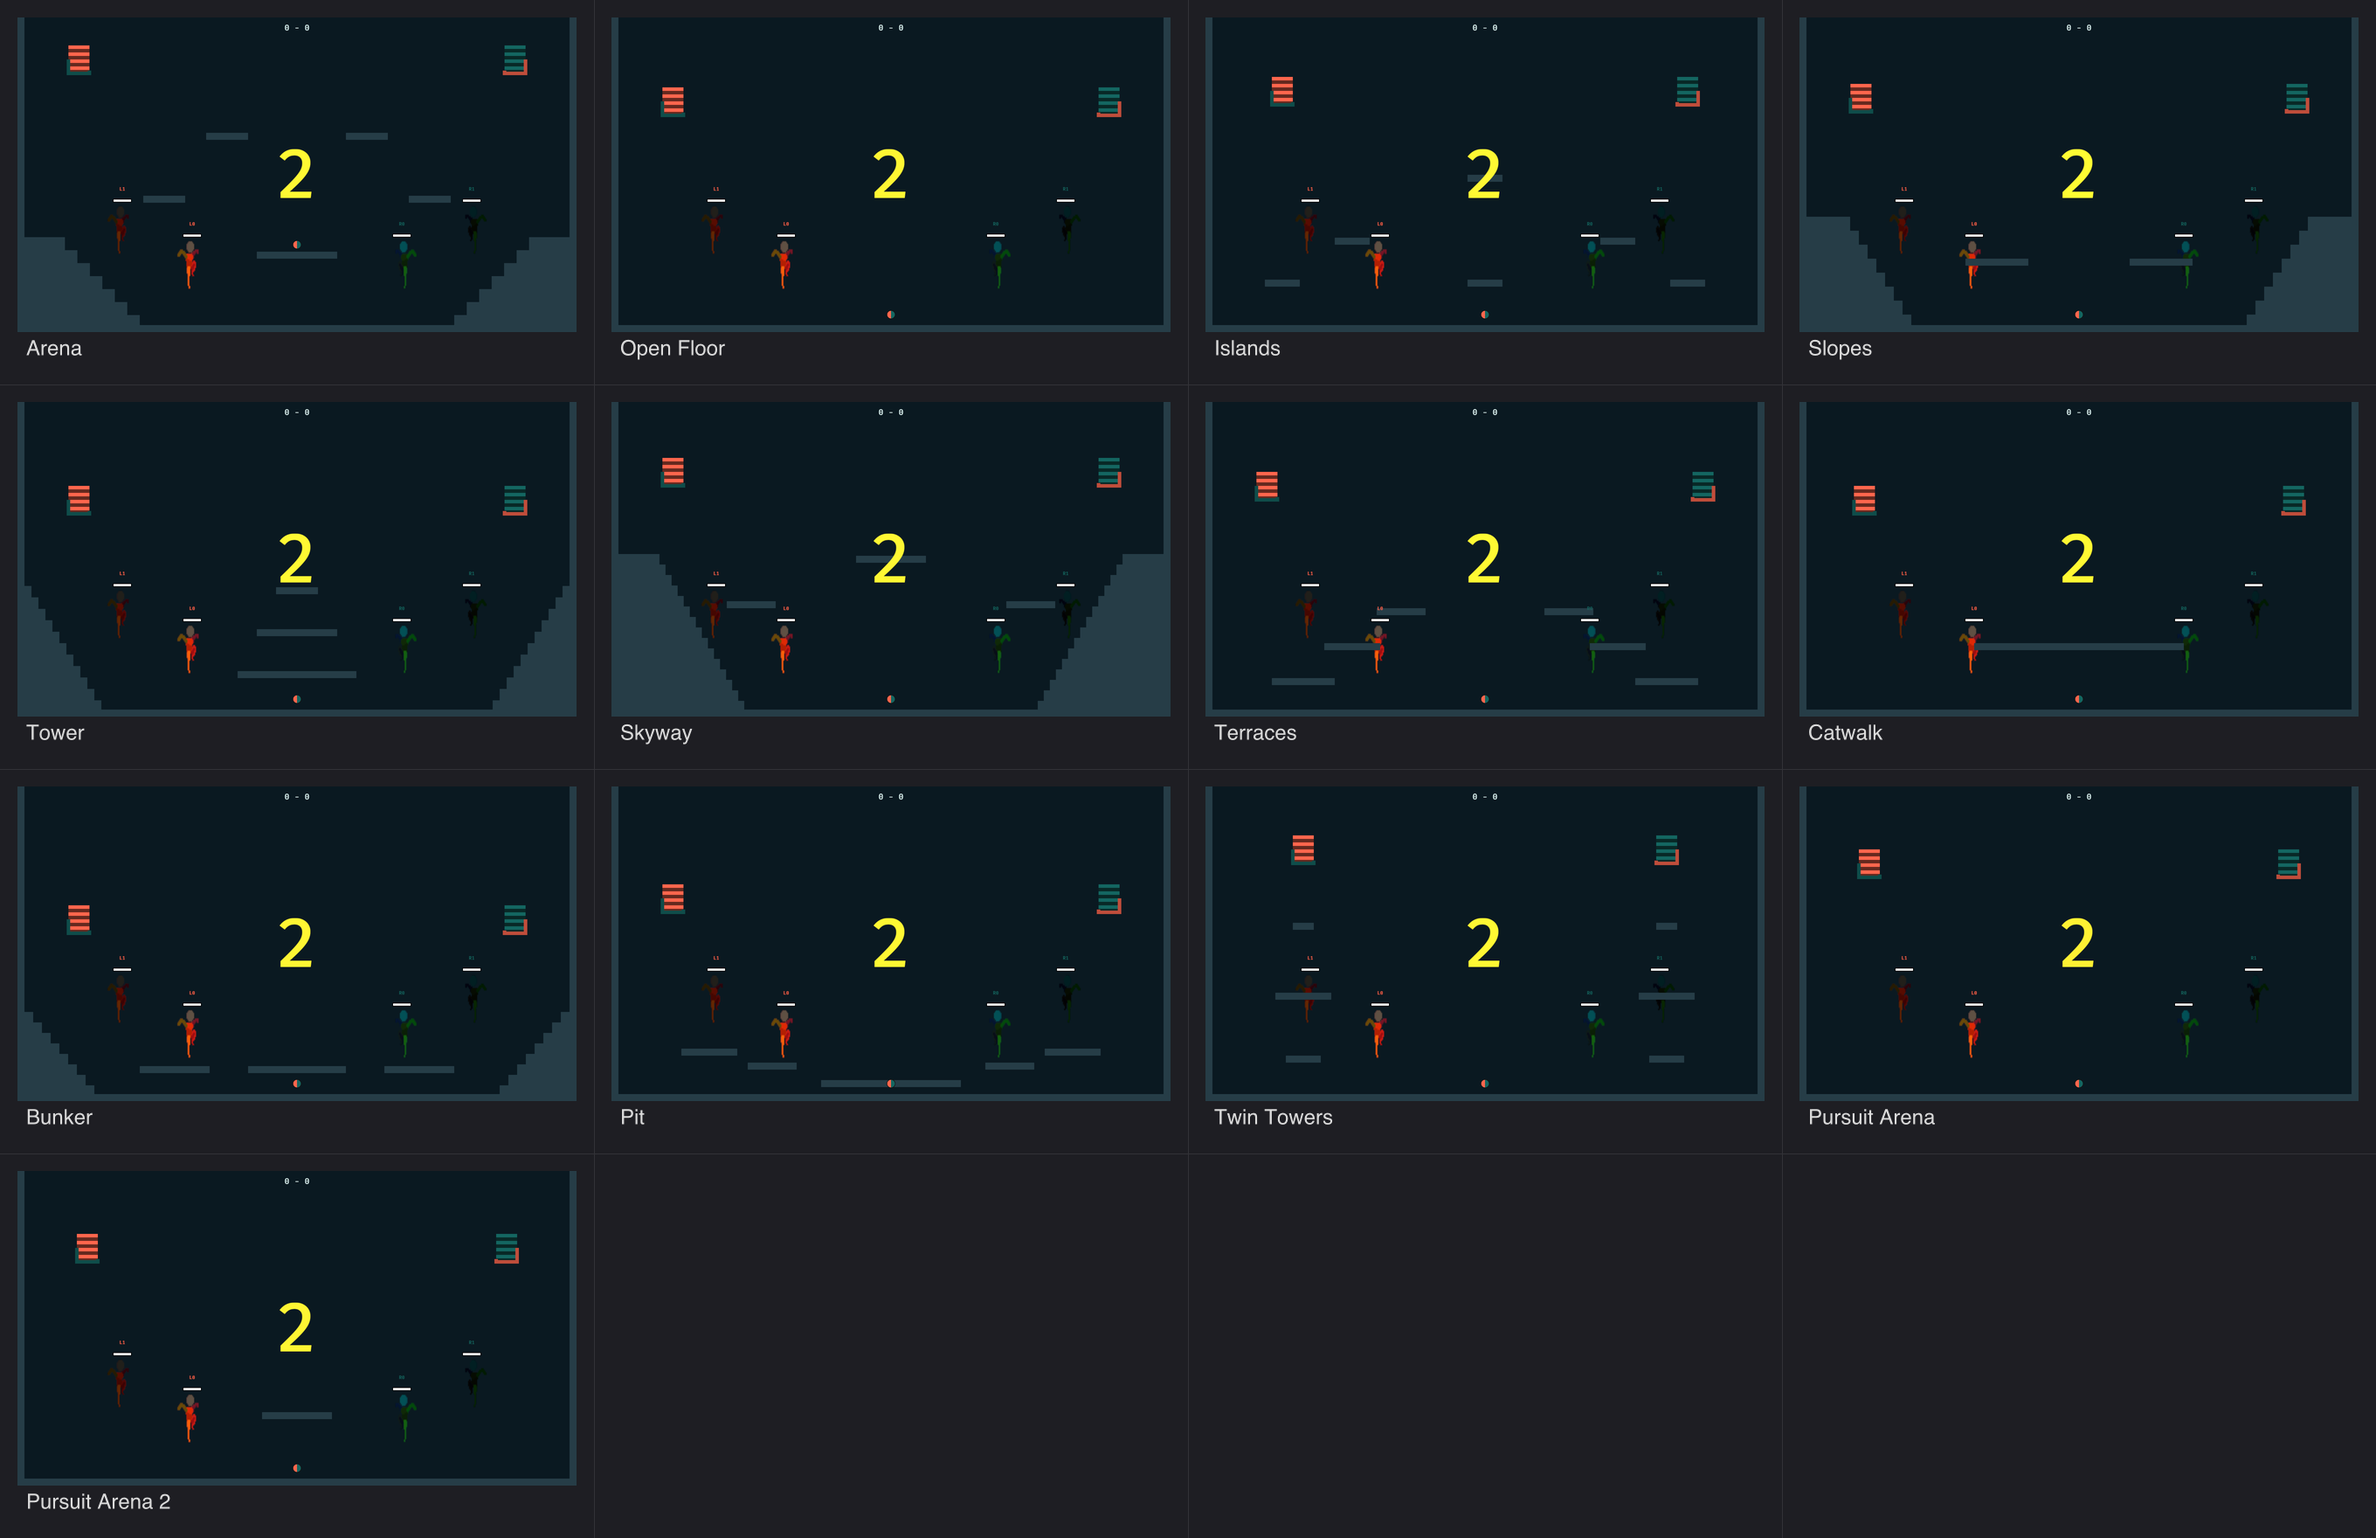
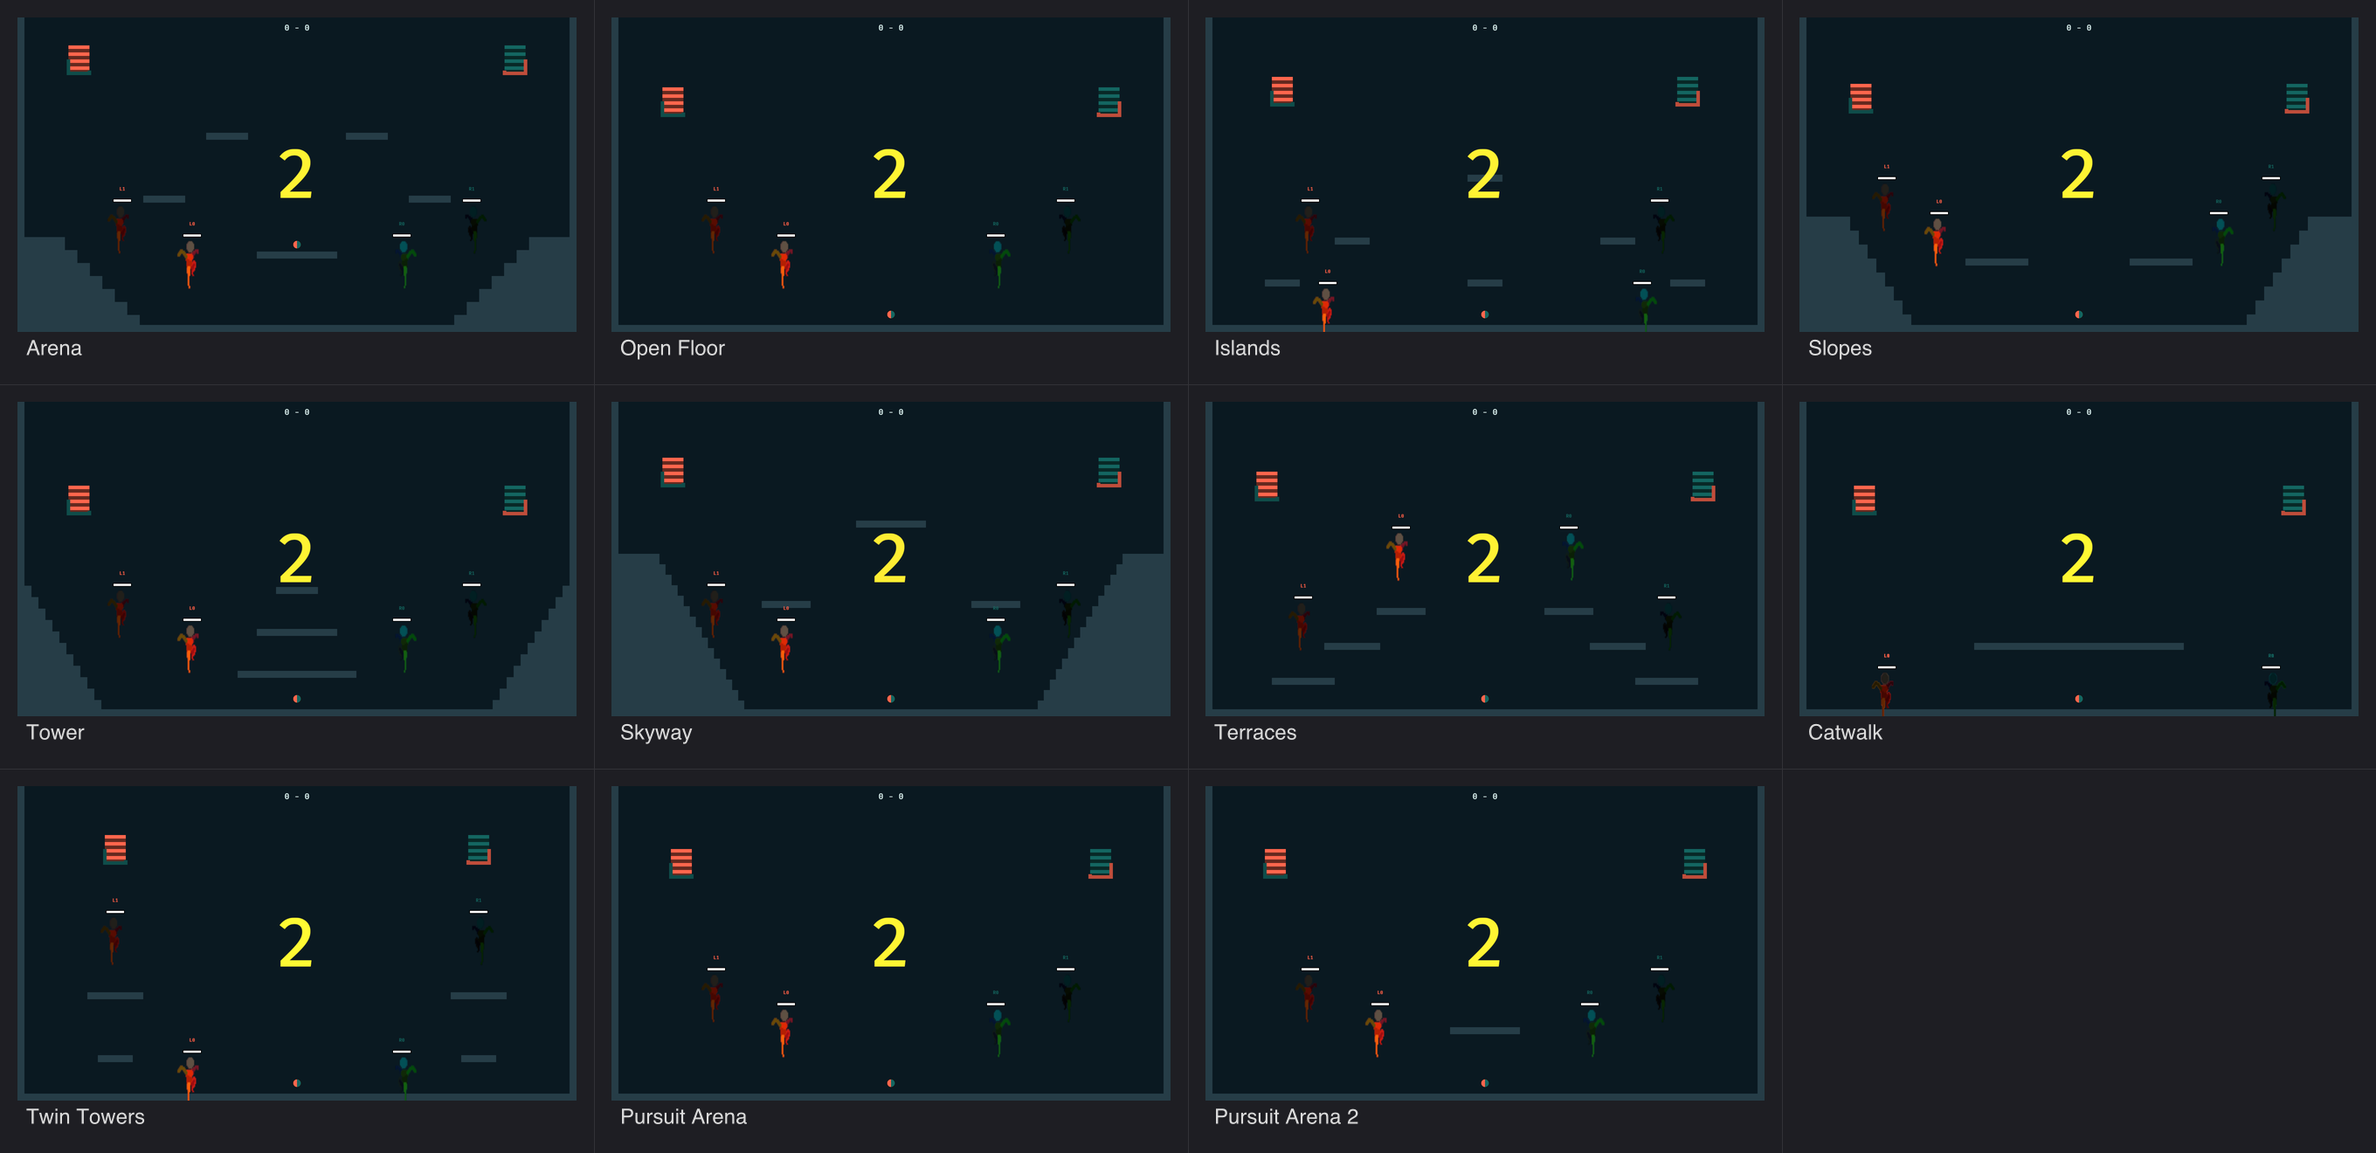
levels spawn etc

diff --git a/ballgame/src/player/spawn.rs b/ballgame/src/player/spawn.rs
@@ -38,31 +38,39 @@ pub fn spawn_position_for_level(
     // Check for custom spawn positions in the level
     // spawn_primary: L0 at (-x, y), R0 at (+x, y)
     // spawn_secondary: L1 at (-x, y), R1 at (+x, y)
+    // y=0 means use default y (feet on floor), otherwise y is height above floor
+    let player_half_height = PLAYER_SIZE.y / 2.0;
+    let default_y = ARENA_FLOOR_Y + player_half_height;
+
     match character {
         CharacterId::L0 => {
             if let Some(pos) = level.spawn_primary {
-                Vec3::new(-pos.x, ARENA_FLOOR_Y + pos.y, 0.0)
+                let y = if pos.y == 0.0 { default_y } else { ARENA_FLOOR_Y + pos.y + player_half_height };
+                Vec3::new(-pos.x, y, 0.0)
             } else {
                 SPAWN_L0
             }
         }
         CharacterId::R0 => {
             if let Some(pos) = level.spawn_primary {
-                Vec3::new(pos.x, ARENA_FLOOR_Y + pos.y, 0.0)
+                let y = if pos.y == 0.0 { default_y } else { ARENA_FLOOR_Y + pos.y + player_half_height };
+                Vec3::new(pos.x, y, 0.0)
             } else {
                 SPAWN_R0
             }
         }
         CharacterId::L1 => {
             if let Some(pos) = level.spawn_secondary {
-                Vec3::new(-pos.x, ARENA_FLOOR_Y + pos.y, 0.0)
+                let y = if pos.y == 0.0 { default_y } else { ARENA_FLOOR_Y + pos.y + player_half_height };
+                Vec3::new(-pos.x, y, 0.0)
             } else {
                 SPAWN_L1
             }
         }
         CharacterId::R1 => {
             if let Some(pos) = level.spawn_secondary {
-                Vec3::new(pos.x, ARENA_FLOOR_Y + pos.y, 0.0)
+                let y = if pos.y == 0.0 { default_y } else { ARENA_FLOOR_Y + pos.y + player_half_height };
+                Vec3::new(pos.x, y, 0.0)
             } else {
                 SPAWN_R1
             }
@@ -294,6 +302,7 @@ pub fn spawn_characters_for_mode(
     start_idle: bool,
     profile_db: &AiProfileDatabase,
     anim_clips: Option<&PlayerAnimClips>,
+    level: Option<&crate::levels::LevelData>,
 ) -> Vec<(CharacterId, Entity)> {
     let characters = mode.characters();
     let mut results = Vec::with_capacity(characters.len());
@@ -317,6 +326,11 @@ pub fn spawn_characters_for_mode(
             None // Will use AI source ID
         };
 
+        // Use level-specific spawn position if available
+        let position = level
+            .map(|l| spawn_position_for_level(character, l))
+            .unwrap_or_else(|| spawn_position(character));
+
         let config = CharacterSpawnConfig {
             character,
             controller,
@@ -324,7 +338,7 @@ pub fn spawn_characters_for_mode(
             start_idle,
             is_human_controlled: is_human,
             ability,
-            position_override: None,
+            position_override: Some(position),
             facing_override: None,
             initial_goal_override: None,
         };

diff --git a/ballgame/src/player/physics.rs b/ballgame/src/player/physics.rs
@@ -13,7 +13,7 @@ use crate::helpers::*;
 use crate::levels::{LevelDatabase, reload_level_geometry};
 use crate::palettes::PaletteDatabase;
 use crate::player::components::*;
-use crate::player::spawn::spawn_position;
+use crate::player::spawn::{spawn_position, spawn_position_for_level};
 use crate::scoring::CurrentLevel;
 use crate::tuning::PhysicsTweaks;
 use crate::world::{Basket, BasketRim, CornerRamp, LevelPlatform, Platform};
@@ -582,10 +582,17 @@ pub fn respawn_player(
         score.left = 0;
         score.right = 0;
 
+        // Get level data for spawn positions
+        let level_data = level_db.get_by_id(&current_level.0);
+
         // Reset player positions
         for (player_entity, mut p_transform, mut p_velocity, holding, character) in &mut players {
-            // Use Character component to determine spawn position
-            p_transform.translation = spawn_position(character.0);
+            // Use Character component and level data to determine spawn position
+            p_transform.translation = if let Some(level) = level_data {
+                spawn_position_for_level(character.0, level)
+            } else {
+                spawn_position(character.0)
+            };
             p_velocity.0 = Vec2::ZERO;
 
             // Drop ball if holding
@@ -633,9 +640,16 @@ pub fn respawn_player(
             .get(current_palette.0)
             .expect("Palette index out of bounds");
 
+        // Get level data for spawn positions
+        let new_level_data = level_db.get_by_id(&current_level.0);
+
         // Reset player positions
         for (player_entity, mut p_transform, mut p_velocity, holding, character) in &mut players {
-            p_transform.translation = spawn_position(character.0);
+            p_transform.translation = if let Some(level) = new_level_data {
+                spawn_position_for_level(character.0, level)
+            } else {
+                spawn_position(character.0)
+            };
             p_velocity.0 = Vec2::ZERO;
 
             if holding.is_some() {

diff --git a/ballgame/src/main.rs b/ballgame/src/main.rs
@@ -790,6 +790,7 @@ fn setup(
         is_special_level,
         &profile_db,
         Some(&anim_clips),
+        level_data,
     );
 
     // Spawn charge gauges and steal indicators for all spawned characters
